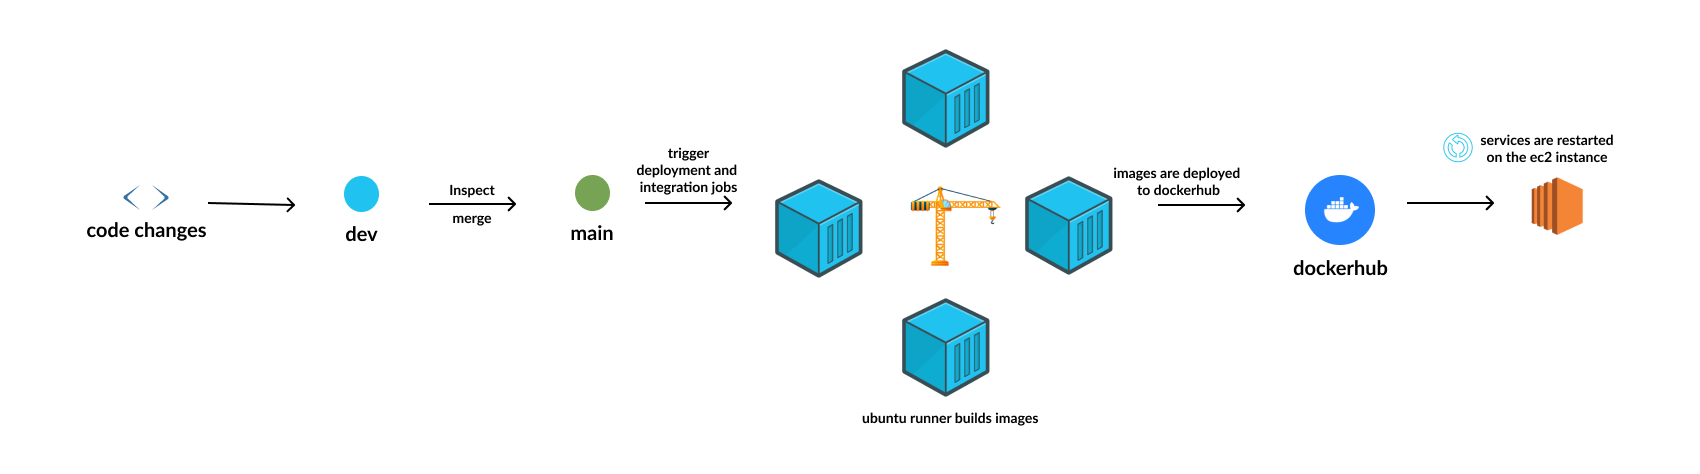
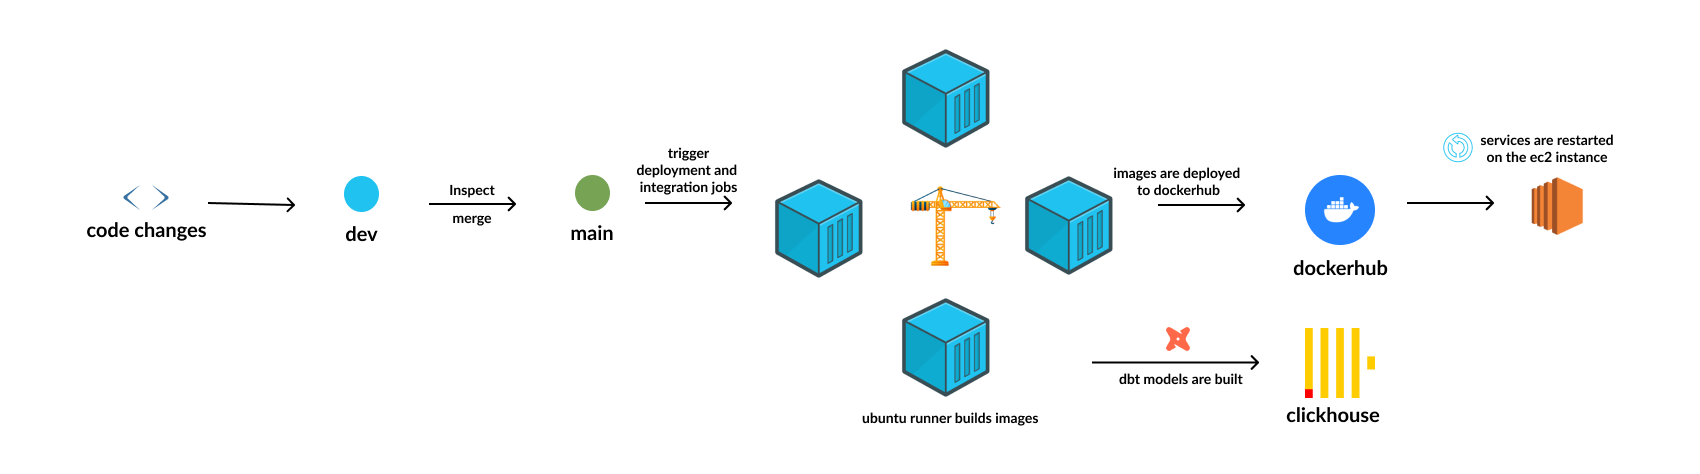
Update README.md; Update Frontend; Update cicd workflow;

Changed region(s): [[0.6547, 0.6793, 0.8106, 0.9156]]

diff --git a/twitter-streaming/frontend/src/components/cicd.js b/twitter-streaming/frontend/src/components/cicd.js
@@ -1,5 +1,7 @@
 import cicd from '../assets/action_screenshot.png';
 import cicd_pipeline from '../assets/cicd_pipeline.png';
+import status from '../assets/status.png';
+
 
 const CICD = () => {
     return (
@@ -29,13 +31,16 @@ const CICD = () => {
                 <li className='my-3'>
                     Once the test passes, the <span className='prose rounded-md px-2 text-white py-1 bg-gray-500'>deployment</span> worflow is triggered. In this step, container images are built on a 
                     ubuntu runner and deployed to dockerhub. The <span className='prose rounded-md px-2 text-white py-1 bg-gray-500'>--platform</span> option in the <span className='prose rounded-md px-2 text-white py-1 bg-gray-500'>Dockerfile</span> has to be removed completely 
-                    or set to <span className='prose rounded-md px-2 text-white py-1 bg-gray-500'>linux/amd64</span> - the architecture of the production server.
+                    or set to <span className='prose rounded-md px-2 text-white py-1 bg-gray-500'>linux/amd64</span> - the architecture of the production server. Additionally, the dbt models are created in <span className='font-bold'>Clickhouse</span>. The content of this model 
+                    is shown in the table on the dashboard.
                 </li>
-                <li className='my-3'>Lastly, <span className='prose rounded-md px-2 text-white py-1 bg-gray-500'>restart_services.sh</span> is run on the production server to:</li>
+                <li className='my-3'>A <span className='prose rounded-md px-2 text-white py-1 bg-gray-500'>restart_services.sh</span> script is run on the production server to:</li>
                 <div className='ml-9'>
                     <li>Pull the latest images</li>
                     <li>Restart the containers with the updated images</li>
                 </div>
+                <li className='my-3'>Lastly, an email about the status of the workflow is sent to my inbox.</li>
+                <img  src={status} />
                 
             </div>
             

diff --git a/README.md b/README.md
@@ -148,7 +148,7 @@ Code changes are commited to the `dev` branch. After some inspection, the code i
 
 - Firstly a simple test is run against the backend (`twitter-streaming/backend/test_main.py`). The test checks whether one of the endpoints works as expected.
 - Once the test passes, the `deployment` worflow is triggered. In this step, container images are built on a ubuntu runner and deployed to dockerhub. The `--platform` option in the `Dockerfile` has to be removed completely or set to `linux/amd64` - the architecture of the production server. Additionally, the dbt models are created in Clickhouse. The content of this model is shown in the table on the dashboard.
-- A `restart_services.sh` is run on the production server to: 
+- A `restart_services.sh` script is run on the production server to: 
     - Pull the latest images 
     - Restart the containers with the updated images
 - Lastly, an email about the status of the job is sent to my inbox.
